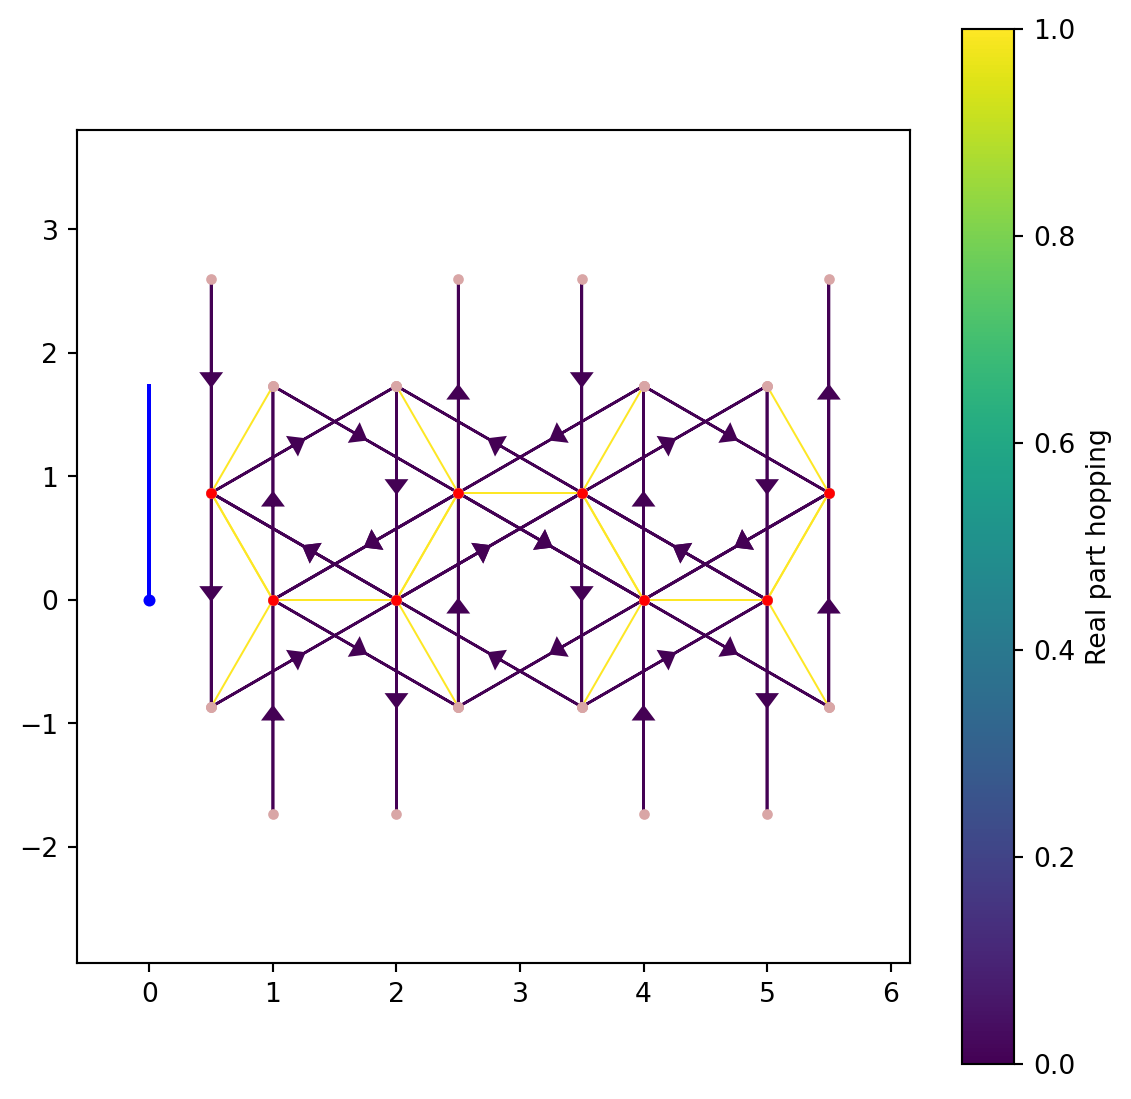
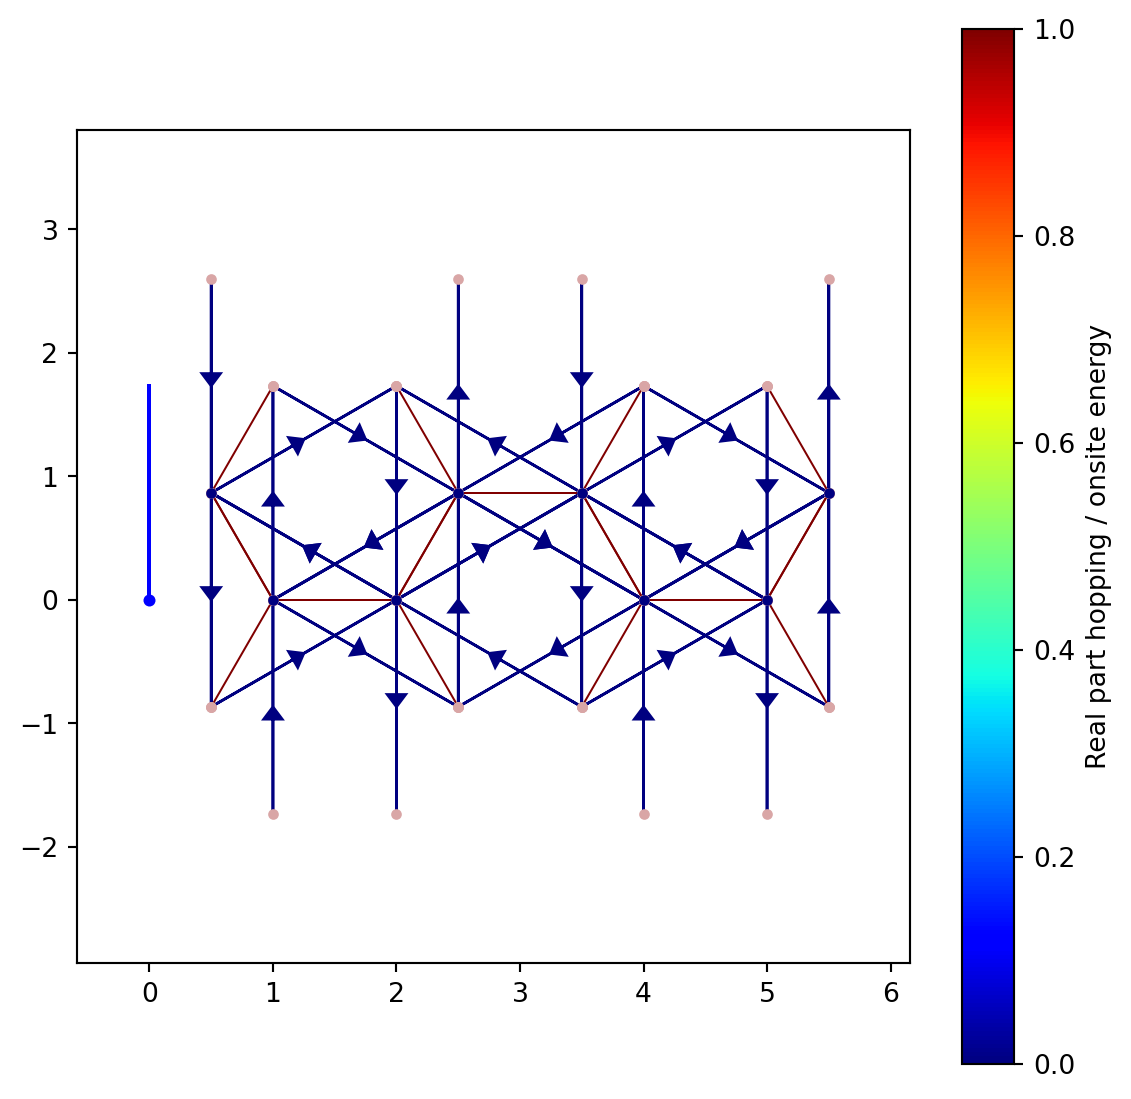
New format image PythTB

diff --git a/docs/Hexagonal.html b/docs/Hexagonal.html
@@ -205,7 +205,7 @@ pre > code.sourceCode > span > a:first-child::before { text-decoration: underlin
 <section id="haldane-model" class="level2" data-number="2.1">
 <h2 data-number="2.1" class="anchored" data-anchor-id="haldane-model"><span class="header-section-number">2.1</span> Haldane model</h2>
 <p>We begin by constructing the Haldane model for graphene.</p>
-<div id="e3693e69" class="cell" data-execution_count="1">
+<div id="abc97551" class="cell" data-execution_count="1">
 <details class="code-fold">
 <summary>Code</summary>
 <div class="sourceCode cell-code" id="cb1"><pre class="sourceCode numberSource python number-lines code-with-copy"><code class="sourceCode python"><span id="cb1-1"><a href="#cb1-1"></a><span class="im">from</span> pythtb <span class="im">import</span> <span class="op">*</span></span>
@@ -245,45 +245,48 @@ pre > code.sourceCode > span > a:first-child::before { text-decoration: underlin
 </div>
 </div>
 </div>
-<div id="e45d01dd" class="cell" data-execution_count="2">
+<div id="62379f6f" class="cell" data-execution_count="2">
 <details class="code-fold">
 <summary>Code</summary>
-<div class="sourceCode cell-code" id="cb2"><pre class="sourceCode numberSource python number-lines code-with-copy"><code class="sourceCode python"><span id="cb2-1"><a href="#cb2-1"></a><span class="kw">def</span> Graph_AC_Fin(t2,phi,Lx<span class="op">=</span><span class="dv">2</span>,Ly<span class="op">=</span><span class="dv">2</span>,M<span class="op">=</span><span class="dv">0</span>,tx<span class="op">=</span><span class="dv">1</span>,ty<span class="op">=</span><span class="dv">1</span>,tz<span class="op">=</span><span class="dv">1</span>):</span>
-<span id="cb2-2"><a href="#cb2-2"></a>  a1<span class="op">=</span>np.array([<span class="dv">3</span><span class="op">/</span><span class="dv">2</span>,<span class="op">-</span>sqrt(<span class="dv">3</span>)<span class="op">/</span><span class="dv">2</span>])</span>
-<span id="cb2-3"><a href="#cb2-3"></a>  a2<span class="op">=</span>np.array([<span class="dv">3</span><span class="op">/</span><span class="dv">2</span>,sqrt(<span class="dv">3</span>)<span class="op">/</span><span class="dv">2</span>])</span>
-<span id="cb2-4"><a href="#cb2-4"></a></span>
-<span id="cb2-5"><a href="#cb2-5"></a>  lat<span class="op">=</span>np.array([a1,a2])</span>
-<span id="cb2-6"><a href="#cb2-6"></a>  orb<span class="op">=</span>[[<span class="dv">1</span><span class="op">/</span><span class="dv">3</span>,<span class="dv">1</span><span class="op">/</span><span class="dv">3</span>],[<span class="dv">2</span><span class="op">/</span><span class="dv">3</span>,<span class="dv">2</span><span class="op">/</span><span class="dv">3</span>]]</span>
+<div class="sourceCode cell-code" id="cb2"><pre class="sourceCode numberSource python number-lines code-with-copy"><code class="sourceCode python"><span id="cb2-1"><a href="#cb2-1"></a><span class="im">from</span> pythtb <span class="im">import</span> <span class="op">*</span></span>
+<span id="cb2-2"><a href="#cb2-2"></a><span class="im">from</span> pylab <span class="im">import</span> <span class="op">*</span></span>
+<span id="cb2-3"><a href="#cb2-3"></a></span>
+<span id="cb2-4"><a href="#cb2-4"></a><span class="kw">def</span> Graph_AC_Fin(t2,phi,Lx<span class="op">=</span><span class="dv">2</span>,Ly<span class="op">=</span><span class="dv">2</span>,M<span class="op">=</span><span class="dv">0</span>,tx<span class="op">=</span><span class="dv">1</span>,ty<span class="op">=</span><span class="dv">1</span>,tz<span class="op">=</span><span class="dv">1</span>):</span>
+<span id="cb2-5"><a href="#cb2-5"></a>  a1<span class="op">=</span>np.array([<span class="dv">3</span><span class="op">/</span><span class="dv">2</span>,<span class="op">-</span>sqrt(<span class="dv">3</span>)<span class="op">/</span><span class="dv">2</span>])</span>
+<span id="cb2-6"><a href="#cb2-6"></a>  a2<span class="op">=</span>np.array([<span class="dv">3</span><span class="op">/</span><span class="dv">2</span>,sqrt(<span class="dv">3</span>)<span class="op">/</span><span class="dv">2</span>])</span>
 <span id="cb2-7"><a href="#cb2-7"></a></span>
-<span id="cb2-8"><a href="#cb2-8"></a>  K2D<span class="op">=</span>tb_model(<span class="dv">2</span>,<span class="dv">2</span>,lat,orb)</span>
-<span id="cb2-9"><a href="#cb2-9"></a>  K2D.set_hop(tx,<span class="dv">0</span>,<span class="dv">1</span>,[<span class="dv">0</span>,<span class="dv">0</span>]) </span>
-<span id="cb2-10"><a href="#cb2-10"></a>  K2D.set_hop(ty,<span class="dv">1</span>,<span class="dv">0</span>,[<span class="dv">0</span>,<span class="dv">1</span>])</span>
-<span id="cb2-11"><a href="#cb2-11"></a>  K2D.set_hop(tz,<span class="dv">1</span>,<span class="dv">0</span>,[<span class="dv">1</span>,<span class="dv">0</span>])</span>
-<span id="cb2-12"><a href="#cb2-12"></a></span>
-<span id="cb2-13"><a href="#cb2-13"></a>  K2D.set_hop(t2<span class="op">*</span>exp(<span class="ot">1j</span><span class="op">*</span>phi),<span class="dv">1</span>,<span class="dv">1</span>,[<span class="op">-</span><span class="dv">1</span>,<span class="dv">0</span>])</span>
-<span id="cb2-14"><a href="#cb2-14"></a>  K2D.set_hop(t2<span class="op">*</span>exp(<span class="ot">1j</span><span class="op">*</span>phi),<span class="dv">1</span>,<span class="dv">1</span>,[<span class="dv">0</span>,<span class="dv">1</span>])</span>
-<span id="cb2-15"><a href="#cb2-15"></a>  K2D.set_hop(t2<span class="op">*</span>exp(<span class="ot">1j</span><span class="op">*</span>phi),<span class="dv">1</span>,<span class="dv">1</span>,[<span class="dv">1</span>,<span class="op">-</span><span class="dv">1</span>])</span>
-<span id="cb2-16"><a href="#cb2-16"></a></span>
-<span id="cb2-17"><a href="#cb2-17"></a>  K2D.set_hop(t2<span class="op">*</span>exp(<span class="ot">1j</span><span class="op">*</span>phi),<span class="dv">0</span>,<span class="dv">0</span>,[<span class="dv">1</span>,<span class="dv">0</span>])</span>
-<span id="cb2-18"><a href="#cb2-18"></a>  K2D.set_hop(t2<span class="op">*</span>exp(<span class="ot">1j</span><span class="op">*</span>phi),<span class="dv">0</span>,<span class="dv">0</span>,[<span class="dv">0</span>,<span class="op">-</span><span class="dv">1</span>])</span>
-<span id="cb2-19"><a href="#cb2-19"></a>  K2D.set_hop(t2<span class="op">*</span>exp(<span class="ot">1j</span><span class="op">*</span>phi),<span class="dv">0</span>,<span class="dv">0</span>,[<span class="op">-</span><span class="dv">1</span>,<span class="dv">1</span>])</span>
-<span id="cb2-20"><a href="#cb2-20"></a>  K2D.set_onsite([M,<span class="op">-</span>M])</span>
-<span id="cb2-21"><a href="#cb2-21"></a></span>
-<span id="cb2-22"><a href="#cb2-22"></a>  K2D <span class="op">=</span> K2D.make_supercell([[<span class="dv">1</span>,<span class="op">-</span><span class="dv">2</span>],[<span class="dv">1</span>,<span class="dv">1</span>]])</span>
-<span id="cb2-23"><a href="#cb2-23"></a></span>
-<span id="cb2-24"><a href="#cb2-24"></a>  <span class="cf">return</span> K2D.cut_piece(Lx,<span class="dv">0</span>).cut_piece(Ly,<span class="dv">1</span>)</span>
-<span id="cb2-25"><a href="#cb2-25"></a></span>
-<span id="cb2-26"><a href="#cb2-26"></a>Graph_AC_Fin(<span class="dv">1</span>,pi<span class="op">/</span><span class="dv">2</span>).visualize(<span class="dv">0</span>,<span class="dv">1</span>,color_hoppings<span class="op">=</span><span class="va">True</span>)</span></code><button title="Copy to Clipboard" class="code-copy-button"><i class="bi"></i></button></pre></div>
+<span id="cb2-8"><a href="#cb2-8"></a>  lat<span class="op">=</span>np.array([a1,a2])</span>
+<span id="cb2-9"><a href="#cb2-9"></a>  orb<span class="op">=</span>[[<span class="dv">1</span><span class="op">/</span><span class="dv">3</span>,<span class="dv">1</span><span class="op">/</span><span class="dv">3</span>],[<span class="dv">2</span><span class="op">/</span><span class="dv">3</span>,<span class="dv">2</span><span class="op">/</span><span class="dv">3</span>]]</span>
+<span id="cb2-10"><a href="#cb2-10"></a></span>
+<span id="cb2-11"><a href="#cb2-11"></a>  K2D<span class="op">=</span>tb_model(<span class="dv">2</span>,<span class="dv">2</span>,lat,orb)</span>
+<span id="cb2-12"><a href="#cb2-12"></a>  K2D.set_hop(tx,<span class="dv">0</span>,<span class="dv">1</span>,[<span class="dv">0</span>,<span class="dv">0</span>]) </span>
+<span id="cb2-13"><a href="#cb2-13"></a>  K2D.set_hop(ty,<span class="dv">1</span>,<span class="dv">0</span>,[<span class="dv">0</span>,<span class="dv">1</span>])</span>
+<span id="cb2-14"><a href="#cb2-14"></a>  K2D.set_hop(tz,<span class="dv">1</span>,<span class="dv">0</span>,[<span class="dv">1</span>,<span class="dv">0</span>])</span>
+<span id="cb2-15"><a href="#cb2-15"></a></span>
+<span id="cb2-16"><a href="#cb2-16"></a>  K2D.set_hop(t2<span class="op">*</span>exp(<span class="ot">1j</span><span class="op">*</span>phi),<span class="dv">1</span>,<span class="dv">1</span>,[<span class="op">-</span><span class="dv">1</span>,<span class="dv">0</span>])</span>
+<span id="cb2-17"><a href="#cb2-17"></a>  K2D.set_hop(t2<span class="op">*</span>exp(<span class="ot">1j</span><span class="op">*</span>phi),<span class="dv">1</span>,<span class="dv">1</span>,[<span class="dv">0</span>,<span class="dv">1</span>])</span>
+<span id="cb2-18"><a href="#cb2-18"></a>  K2D.set_hop(t2<span class="op">*</span>exp(<span class="ot">1j</span><span class="op">*</span>phi),<span class="dv">1</span>,<span class="dv">1</span>,[<span class="dv">1</span>,<span class="op">-</span><span class="dv">1</span>])</span>
+<span id="cb2-19"><a href="#cb2-19"></a></span>
+<span id="cb2-20"><a href="#cb2-20"></a>  K2D.set_hop(t2<span class="op">*</span>exp(<span class="ot">1j</span><span class="op">*</span>phi),<span class="dv">0</span>,<span class="dv">0</span>,[<span class="dv">1</span>,<span class="dv">0</span>])</span>
+<span id="cb2-21"><a href="#cb2-21"></a>  K2D.set_hop(t2<span class="op">*</span>exp(<span class="ot">1j</span><span class="op">*</span>phi),<span class="dv">0</span>,<span class="dv">0</span>,[<span class="dv">0</span>,<span class="op">-</span><span class="dv">1</span>])</span>
+<span id="cb2-22"><a href="#cb2-22"></a>  K2D.set_hop(t2<span class="op">*</span>exp(<span class="ot">1j</span><span class="op">*</span>phi),<span class="dv">0</span>,<span class="dv">0</span>,[<span class="op">-</span><span class="dv">1</span>,<span class="dv">1</span>])</span>
+<span id="cb2-23"><a href="#cb2-23"></a>  K2D.set_onsite([M,<span class="op">-</span>M])</span>
+<span id="cb2-24"><a href="#cb2-24"></a></span>
+<span id="cb2-25"><a href="#cb2-25"></a>  K2D <span class="op">=</span> K2D.make_supercell([[<span class="dv">1</span>,<span class="op">-</span><span class="dv">2</span>],[<span class="dv">1</span>,<span class="dv">1</span>]])</span>
+<span id="cb2-26"><a href="#cb2-26"></a></span>
+<span id="cb2-27"><a href="#cb2-27"></a>  <span class="cf">return</span> K2D.cut_piece(Lx,<span class="dv">0</span>).cut_piece(Ly,<span class="dv">1</span>)</span>
+<span id="cb2-28"><a href="#cb2-28"></a></span>
+<span id="cb2-29"><a href="#cb2-29"></a>Graph_AC_Fin(<span class="dv">1</span>,pi<span class="op">/</span><span class="dv">2</span>,M<span class="op">=</span><span class="fl">0.3</span>).visualize(<span class="dv">0</span>,<span class="dv">1</span>,color_hoppings<span class="op">=</span><span class="va">True</span>)</span></code><button title="Copy to Clipboard" class="code-copy-button"><i class="bi"></i></button></pre></div>
 </details>
 <div class="cell-output cell-output-display">
 <div>
 <figure class="figure">
-<p><img src="Hexagonal_files/figure-html/cell-3-output-1.png" width="566" height="550" class="figure-img"></p>
+<p><img src="Hexagonal_files/figure-html/cell-3-output-1.png" width="577" height="542" class="figure-img"></p>
 </figure>
 </div>
 </div>
 </div>
-<div id="2bef6125" class="cell" data-execution_count="3">
+<div id="a78d7df3" class="cell" data-execution_count="3">
 <details class="code-fold">
 <summary>Code</summary>
 <div class="sourceCode cell-code" id="cb3"><pre class="sourceCode numberSource python number-lines code-with-copy"><code class="sourceCode python"><span id="cb3-1"><a href="#cb3-1"></a><span class="kw">def</span> Graph_Ribbon_AC(t2,phi,L,M<span class="op">=</span><span class="dv">0</span>,tx<span class="op">=</span><span class="dv">1</span>,ty<span class="op">=</span><span class="dv">1</span>,tz<span class="op">=</span><span class="dv">1</span>):</span>
@@ -321,7 +324,7 @@ pre > code.sourceCode > span > a:first-child::before { text-decoration: underlin
 </div>
 </div>
 </div>
-<div id="8cbb9457" class="cell" data-execution_count="4">
+<div id="9ddfd1cc" class="cell" data-execution_count="4">
 <details class="code-fold">
 <summary>Code</summary>
 <div class="sourceCode cell-code" id="cb4"><pre class="sourceCode numberSource python number-lines code-with-copy"><code class="sourceCode python"><span id="cb4-1"><a href="#cb4-1"></a><span class="im">from</span> pythtb <span class="im">import</span> <span class="op">*</span></span>
@@ -363,7 +366,7 @@ pre > code.sourceCode > span > a:first-child::before { text-decoration: underlin
 </div>
 </div>
 </div>
-<div id="85240f44" class="cell" data-execution_count="5">
+<div id="cf8ca717" class="cell" data-execution_count="5">
 <details class="code-fold">
 <summary>Code</summary>
 <div class="sourceCode cell-code" id="cb5"><pre class="sourceCode numberSource python number-lines code-with-copy"><code class="sourceCode python"><span id="cb5-1"><a href="#cb5-1"></a>k <span class="op">=</span> linspace(<span class="dv">0</span>,<span class="dv">1</span>,<span class="dv">101</span>)</span>
@@ -389,7 +392,7 @@ pre > code.sourceCode > span > a:first-child::before { text-decoration: underlin
 </div>
 </div>
 </div>
-<div id="0d5d2cee" class="cell" data-execution_count="6">
+<div id="75a3754e" class="cell" data-execution_count="6">
 <details class="code-fold">
 <summary>Code</summary>
 <div class="sourceCode cell-code" id="cb6"><pre class="sourceCode numberSource python number-lines code-with-copy"><code class="sourceCode python"><span id="cb6-1"><a href="#cb6-1"></a>phi_path <span class="op">=</span> linspace(<span class="dv">0</span>,<span class="dv">2</span><span class="op">*</span>pi,<span class="dv">100</span>)</span>
@@ -398,7 +401,7 @@ pre > code.sourceCode > span > a:first-child::before { text-decoration: underlin
 <span id="cb6-4"><a href="#cb6-4"></a>Ene <span class="op">=</span> np.array(Ene)</span></code><button title="Copy to Clipboard" class="code-copy-button"><i class="bi"></i></button></pre></div>
 </details>
 </div>
-<div id="35b1538f" class="cell" data-execution_count="7">
+<div id="6167e367" class="cell" data-execution_count="7">
 <details class="code-fold">
 <summary>Code</summary>
 <div class="sourceCode cell-code" id="cb7"><pre class="sourceCode numberSource python number-lines code-with-copy"><code class="sourceCode python"><span id="cb7-1"><a href="#cb7-1"></a><span class="cf">for</span> L <span class="kw">in</span> Ene.T:</span>
